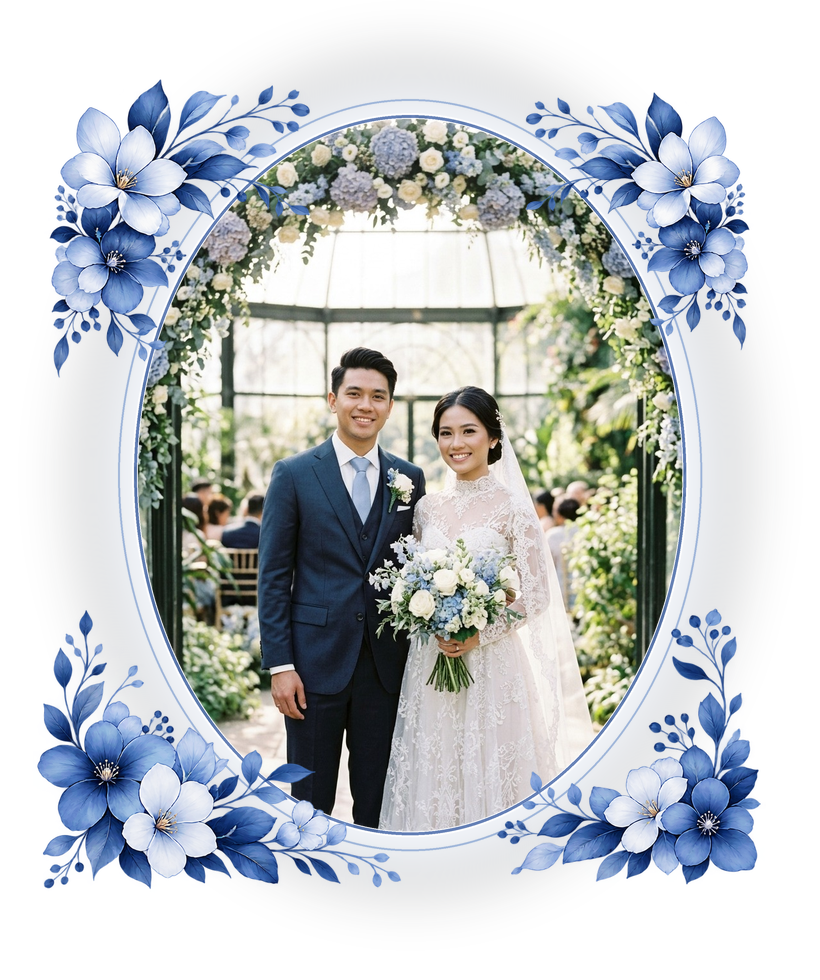
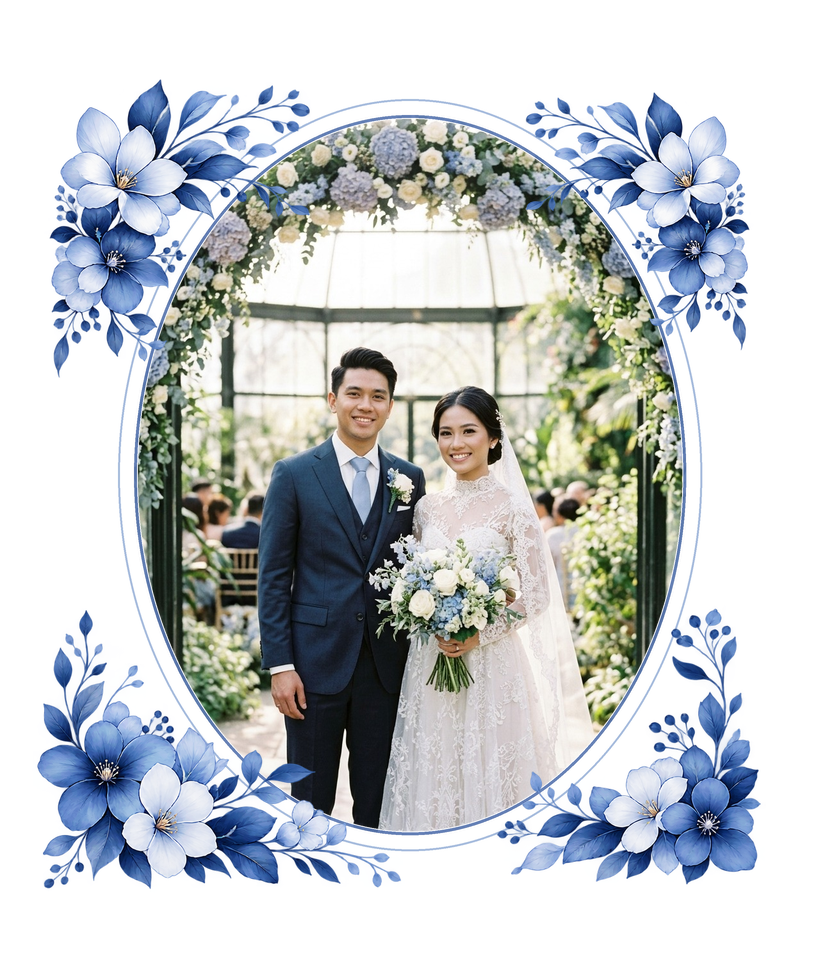
style(undangan_22): remove grey halo blur and drop-shadow rings from photo frames

diff --git a/undangan_22/index.html b/undangan_22/index.html
@@ -132,7 +132,7 @@
           <div
             class="relative w-[160px] sm:w-[180px] aspect-[820/980] mx-auto mb-2 flex items-center justify-center gate-anim-frame-photo">
             <img src="asset/img/mempelai/mempelai_berbingkai.png" alt="Mempelai Raka &amp; Sinta"
-              class="w-full h-full object-contain pointer-events-none drop-shadow-[0_12px_26px_rgba(21,37,68,0.18)]"
+              class="w-full h-full object-contain pointer-events-none"
               decoding="async">
           </div>
 
@@ -488,7 +488,7 @@
           <!-- Dreamy Floral Circular Medallion (groom_berbingkai.png) -->
           <div class="relative w-44 sm:w-48 mx-auto mb-3 pt-1">
             <img src="asset/img/mempelai/groom_berbingkai.png" alt="Raden Mas Raka Pradana"
-              class="w-full h-auto drop-shadow-[0_10px_22px_rgba(21,37,68,0.14)] pointer-events-none" decoding="async">
+              class="w-full h-auto pointer-events-none" decoding="async">
           </div>
 
           <span
@@ -552,7 +552,7 @@
           <!-- Dreamy Floral Circular Medallion (bride_berbingkai.png) -->
           <div class="relative w-44 sm:w-48 mx-auto mb-3 pt-1">
             <img src="asset/img/mempelai/bride_berbingkai.png" alt="Raden Ajeng Sinta Larasati"
-              class="w-full h-auto drop-shadow-[0_10px_22px_rgba(21,37,68,0.14)] pointer-events-none" decoding="async">
+              class="w-full h-auto pointer-events-none" decoding="async">
           </div>
 
           <span
@@ -681,7 +681,7 @@
           class="mt-8 cursor-pointer group reveal-scale delay-250 text-center">
           <div class="relative w-[270px] sm:w-[295px] mx-auto">
             <img src="asset/img/mempelai/story_berbingkai.png" alt="Momen Bahagia Raka &amp; Sinta"
-              class="w-full h-auto drop-shadow-[0_14px_28px_rgba(21,37,68,0.16)] group-hover:scale-[1.02] transition-transform duration-500"
+              class="w-full h-auto group-hover:scale-[1.02] transition-transform duration-500"
               decoding="async" loading="lazy">
           </div>
           <p class="font-serif italic text-xs sm:text-[13px] text-[#5D7BB4] font-medium mt-2 max-w-[300px] mx-auto">
@@ -1336,7 +1336,7 @@
         <!-- Dreamy Floral Arch Closing Portrait -->
         <div class="relative w-[196px] sm:w-[216px] mx-auto mb-5 reveal-scale z-10">
           <img src="asset/img/mempelai/footer_mempelai_berbingkai.png" alt="Mempelai Raka &amp; Sinta Berbingkai"
-            class="w-full h-auto drop-shadow-[0_14px_28px_rgba(21,37,68,0.16)] pointer-events-none" decoding="async"
+            class="w-full h-auto pointer-events-none" decoding="async"
             loading="lazy">
         </div>
 
